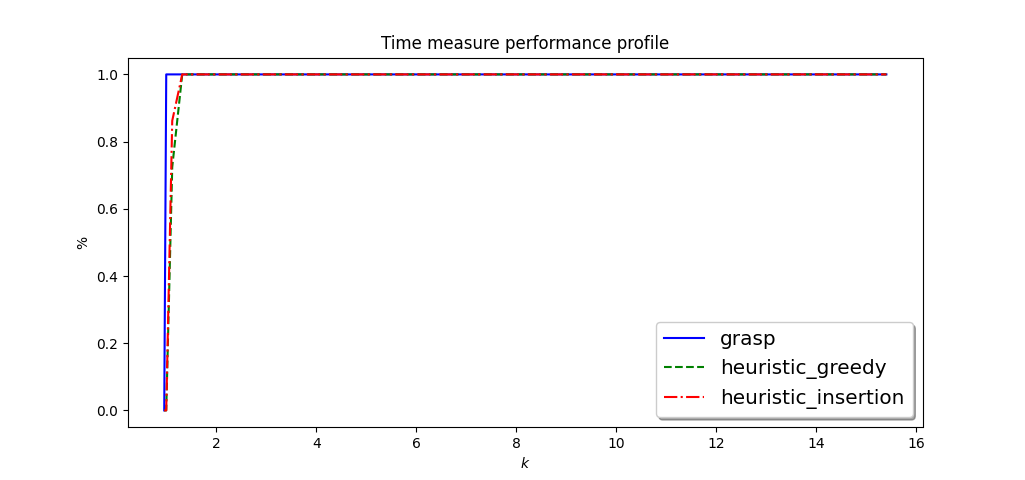
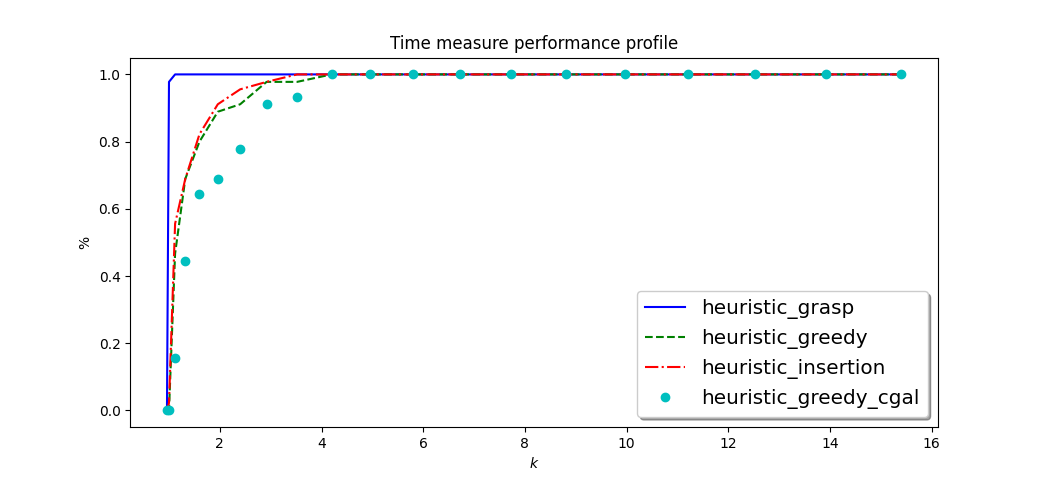
add CGAL performance profile

diff --git a/Latex/meta-euristici.tex b/Latex/meta-euristici.tex
@@ -110,7 +110,7 @@ Algorithm \ref{alg:gagen} describes in a compact way the various steps of the en
 	\For{\texttt{$i := 1$ to N\textsubscript{pop}}}
 		\State $p_A := \textit{x\textsubscript{r($i$)}} , \textit{p\textsubscript{B}} := \textit{x\textsubscript{r($i+1$)}} $
 		\State $\textit{\{y\textsubscript{$1$},...,y\textsubscript{N\textsubscript{kids}}\}} := \textit{EAX\_SINGLE(p\textsubscript{A}, p\textsubscript{B})}$
-		\State $\textit{x\textsubscript{r($i$)}} := \textit{SURVIVAL\_SELECTION(y\textsubscript{$1$},...,y\textsubscript{N\textsubscript{kids}}, p\textsubscript{A})} $
+		\State $x_{r(i)} := SURVIVAL\_SELECTION(y_1,...,y_{N_{kids}}, p_A) $
 	\EndFor
 	\State $\textit{best\_individual} := \textit{best individual of actual population}$
 \EndWhile

diff --git a/Latex/title.tex b/Latex/title.tex
@@ -14,7 +14,7 @@
 
         \Large\textit{Professor}  & \Large\textit{Author, ID number} \\ [0.2cm]
         \Large\textsc{Matteo Fischetti}  & \Large\textsc{Luca Perali, 1237770} \\ [0.2cm]
-          & \Large\textsc{Michele Thiella 1206603} \\ [0.3cm]
+          & \Large\textsc{Michele Thiella, 1206603} \\ [0.3cm]
         \hline
     \end{tabularx}
   \end{table}
